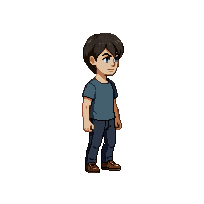
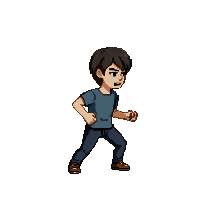
Layer test now uses the 3/4 battle-stance idle; catch greyish eye whites
- art/mc_test: body frames + face/eyes/hair from the male base's 3/4
  battle stance (PixelLab: animated from the 3/4 rotation into the stance,
  then a breathing loop from its last frame; frames 0-2 ping-ponged).
- sprite_layers.py: eye whites are detected from lightness 0.70 (was
  0.82) so squinting/greyish whites land on the eyes layer.

Changed region(s): [[0.3235, 0.1471, 0.6765, 0.8529]]

diff --git a/tools/sprite_layers.py b/tools/sprite_layers.py
@@ -106,7 +106,7 @@ def is_skin(c):
 def is_eye_color(c):
     """Iris (blue/green/violet hues) or eye white."""
     h, s, l = hsl(c)
-    return (l >= 0.82) or (70 <= h <= 290 and s >= 0.15 and l >= 0.2)
+    return (l >= 0.70 and not is_skin(c)) or (70 <= h <= 290 and s >= 0.15 and l >= 0.2)
 
 
 def is_dark(c):
